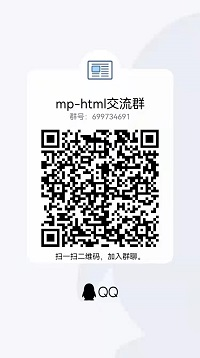
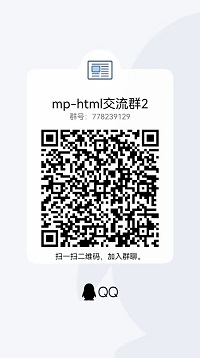
文档更新

Changed region(s): [[0.18, 0.2458, 0.81, 0.7067]]

diff --git a/docs/question/feedback.md b/docs/question/feedback.md
@@ -23,7 +23,7 @@
 1. *issue* 方式  
    在 *github* 中提出 [issue](https://github.com/jin-yufeng/mp-html/issues/new/choose)（推荐，解决方案可以给其他人参考）
 2. *QQ* 群方式  
-   加入 *QQ* 交流群 *699734691*，并发送和交流相关问题  
+   加入 *QQ* 交流群 *699734691* 或 *778239129*，并发送和交流相关问题  
 3. 邮箱方式  
    如果不希望公开问题，可以通过邮箱方式联系，发送邮件到 *mp_html@126.com*，邮件格式可参考 [issue 模板](https://github.com/jin-yufeng/mp-html/issues/new/choose)
 

diff --git a/docs/changelog/changelog.md b/docs/changelog/changelog.md
@@ -1,7 +1,7 @@
 # 📖 更新日志 :id=changelog
 
 ## v2.4.0
-发布时间：  
+发布时间：*2022-08-27*  
 主要更新：  
 1. `A` 增加了 [setPlaybackRate](advanced/api#setPlaybackRate) 的 `api`，可以设置音视频的播放速率 [详细](https://github.com/jin-yufeng/mp-html/issues/452)
 2. `A` 示例小程序代码开源 [详细](https://github.com/jin-yufeng/mp-html-demo)

diff --git a/README.md b/README.md
@@ -224,7 +224,9 @@
   在用于生产环境前务必经过充分测试，由插件 `bug` 带来的损失概不负责（可以自行修改源码）  
 
 - 联系  
-  欢迎加入 `QQ` 交流群：`699734691`  
+  欢迎加入 `QQ` 交流群：  
+  群1（已满）：`699734691`  
+  群2：`778239129`  
   ![group](docs/assets/group.jpg)  
 
 - 支持  

diff --git a/docs/_coverpage.md b/docs/_coverpage.md
@@ -1,6 +1,6 @@
 ![logo](assets/logo/logo.png)
 
-# mp-html <small>2.3.2</small>
+# mp-html <small>2.4.0</small>
 
 > 一个强大的小程序富文本组件
 
